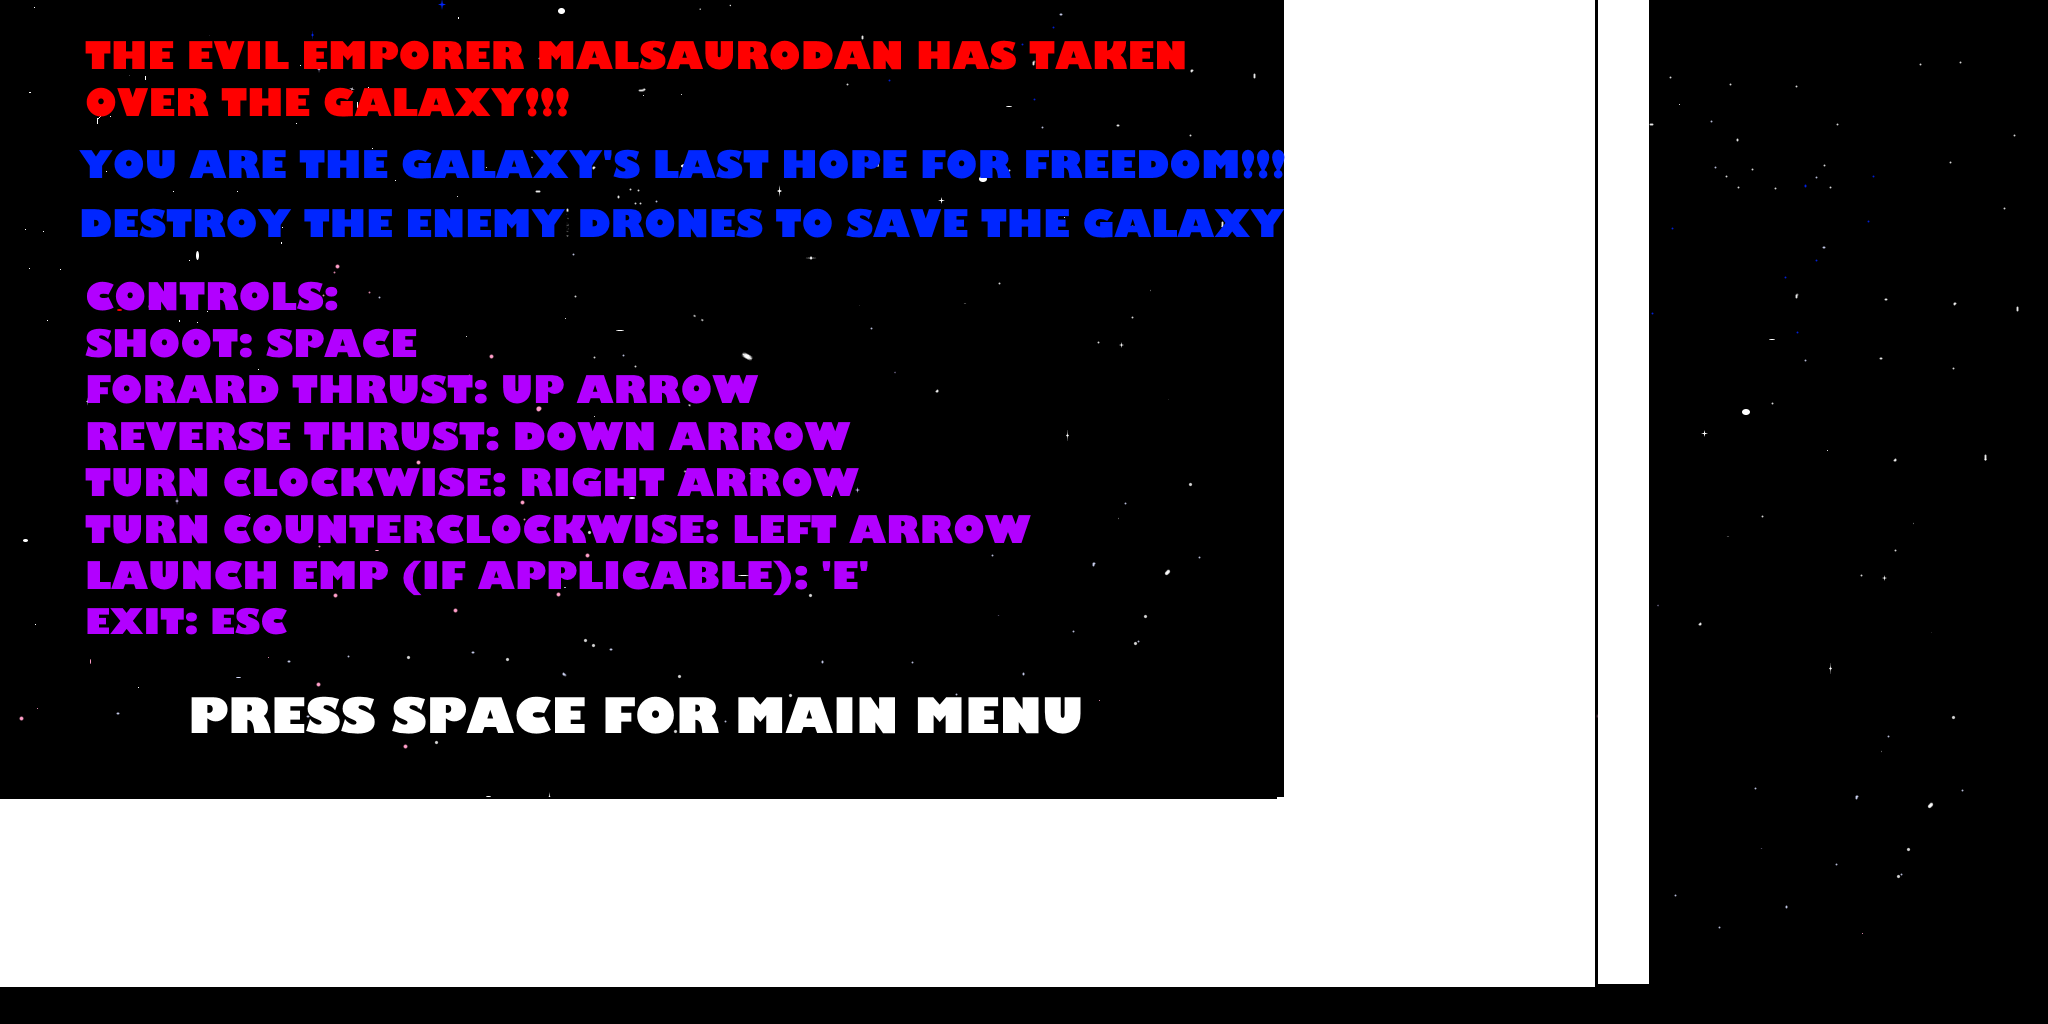
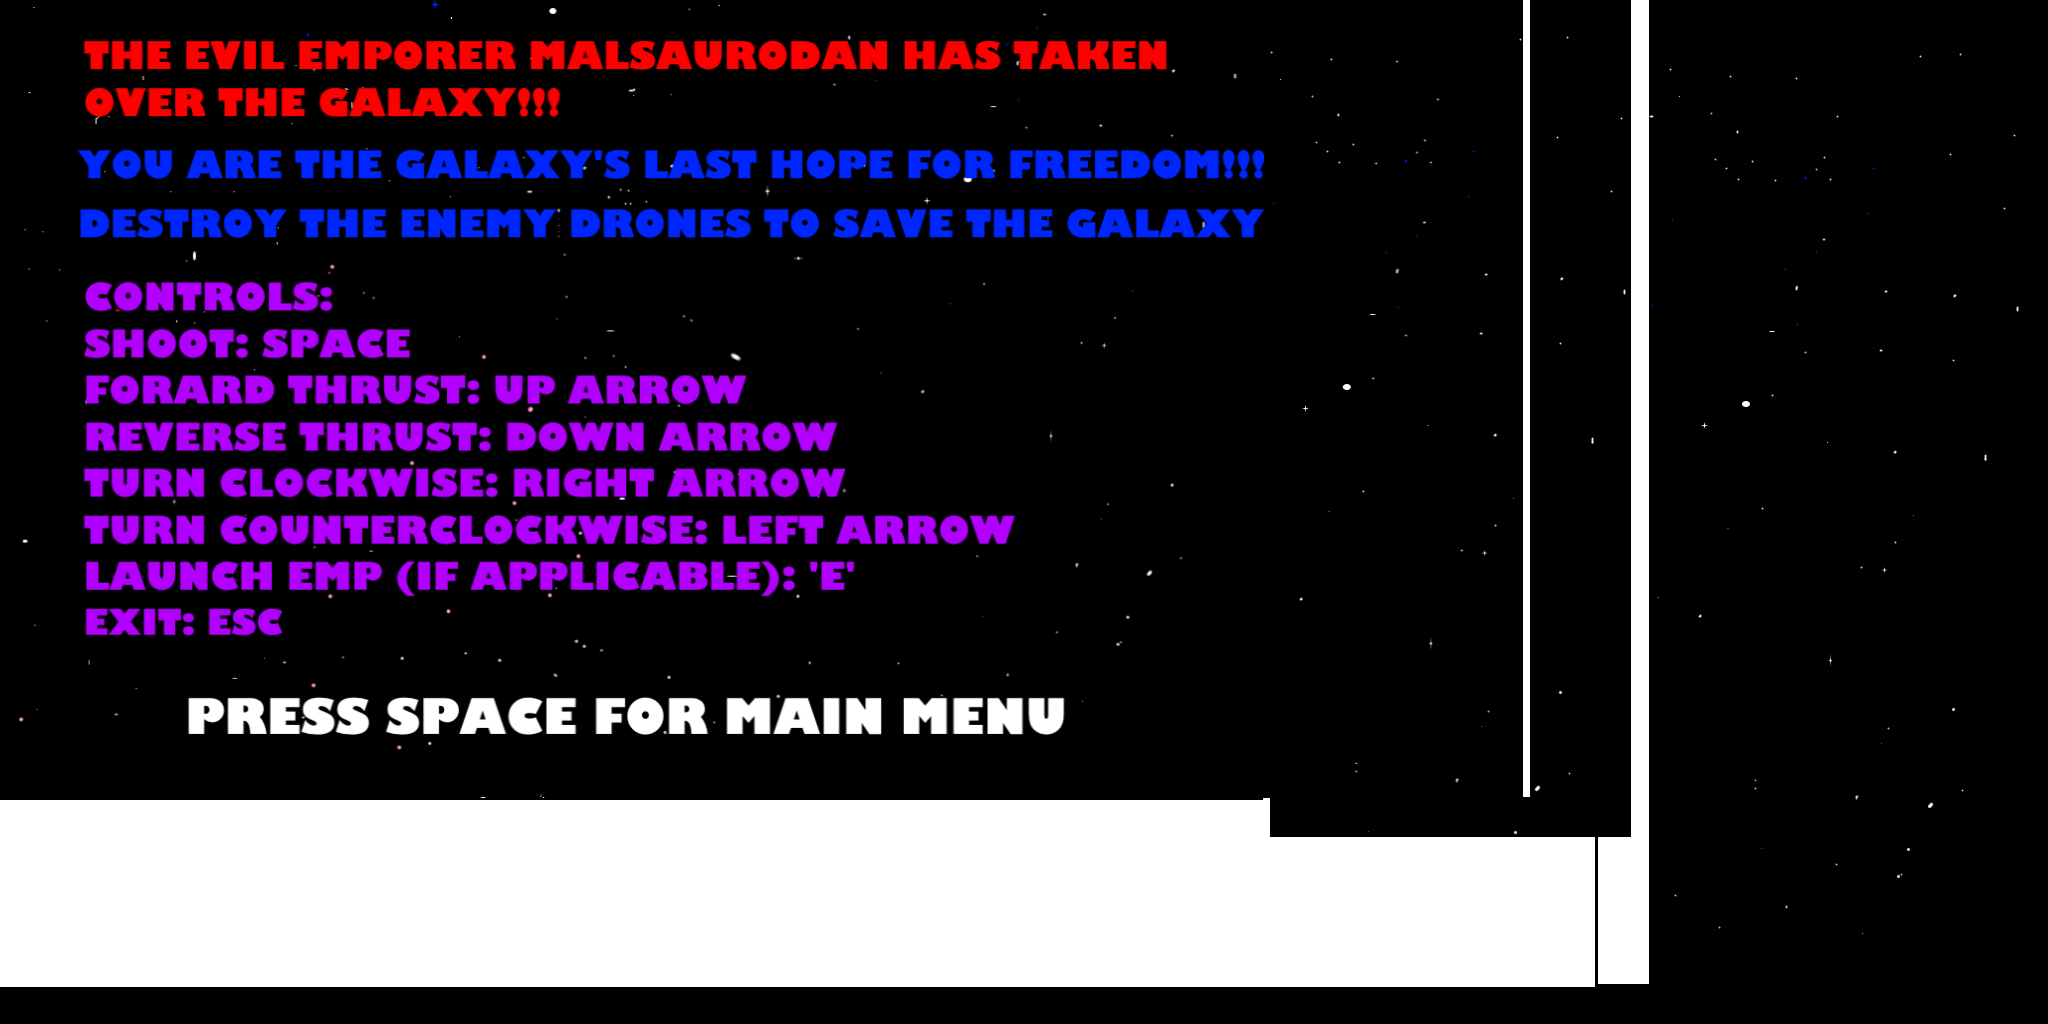
Added 2 cheat codes, and fixed some bugs etc.

Changed region(s): [[0.0312, 0.0, 0.8125, 0.8438], [0.0312, 0.2812, 0.5, 0.625], [0.0938, 0.6562, 0.5312, 0.7188]]

diff --git a/collisionTypes.cpp b/collisionTypes.cpp
@@ -201,6 +201,8 @@ void CollisionTypes::initialize(HWND hwnd)
 	levelOutput->setFontColor(graphicsNS::BLUE);
 	levelNumber=1;
 	forcefield = false;
+	maiman = false;
+	sp = false;
 	LEVEL_UP_MSG = "LEVEL ";
 	optionsScreenMSG = "MUSIC IS CURRENTLY";
 	currentEnemyMaxHits = 0;
@@ -318,6 +320,8 @@ void CollisionTypes::update()
 		player.update(frameTime);
 		if(forcefield)
 			player.getShield()->setVisible();
+		if(sp)
+			player.setHasEmp(true);
 		if(input->isKeyDown(player_LEFT))
 				player.left();
 		if(input->isKeyDown(player_RIGHT))
@@ -611,6 +615,18 @@ void CollisionTypes::updateState()
 		{
 			cheatAttempt = "";
 			forcefield = true;
+		}
+		if(!strcmp(cheatAttempt.c_str(),LASER_CHEAT))
+		{
+			cheatAttempt = "";
+			maiman = true;
+			for(int i = 0; i < MAX_PLAYER_LASERS; i++)
+				playerLaser[i].setScale(10);
+		}
+		if(!strcmp(cheatAttempt.c_str(),EMP_CHEAT))
+		{
+			cheatAttempt = "";
+			sp = true;
 		}
 	}
 	else if(gameState==MENU && mainMenu->getSelectedItem()==3)
@@ -938,6 +954,8 @@ void CollisionTypes::levelReset()
 		(enemy[i]).setMaxHits(currentEnemyMaxHits);
 		(enemy[i]).getEMP()->setActive(false);
 		(enemy[i]).setEMPCounter(0);
+		enemy[i].getEMP()->setInvisible();
+		enemy[i].getEMP()->resetScale();
 	}
 	player.setVisible();
 	player.getShield()->setInvisible();

diff --git a/constants.h b/constants.h
@@ -77,7 +77,7 @@ inline void safeOnResetDevice(T& ptr)
 const char CLASS_NAME[] = "AI";
 const char GAME_TITLE[] = "SPACESHIP CONTROL";
 const bool FULLSCREEN = false;              // windowed or fullscreen
-const UINT GAME_WIDTH =  1270;               // width of game in pixels
+const UINT GAME_WIDTH =  1265;               // width of game in pixels
 const UINT GAME_HEIGHT = 800;               // height of game in pixels
 const float BACKGROUND_SCALE = 0.8;
 
@@ -153,4 +153,6 @@ const char ASOUND[] = "a";
 enum PATTERN_STEP_ACTION {NONE, UP, DOWN, LEFT, RIGHT, TRACK, EVADE};
 enum GAME_STATES {SPLASH, GAME_PLAY,LOSE_SCREEN,NEW_LEVEL,MENU,OPTIONS,CHEAT,INSTR,HIGH_SCORES};
 const char INVINCIBILITY_CHEAT[] = "FORCEFIELD";
+const char LASER_CHEAT[] = "MAIMAN";
+const char EMP_CHEAT[] = "STARFISHPRIME";
 #endif

diff --git a/collisionTypes.h b/collisionTypes.h
@@ -79,6 +79,8 @@ private:
 	bool backAnyKeyPressedLastFrame;
 	bool backCheatKeyPressedLastFrame;
 	bool forcefield;
+	bool maiman;
+	bool sp;
 public:
     // Constructor
     CollisionTypes();
